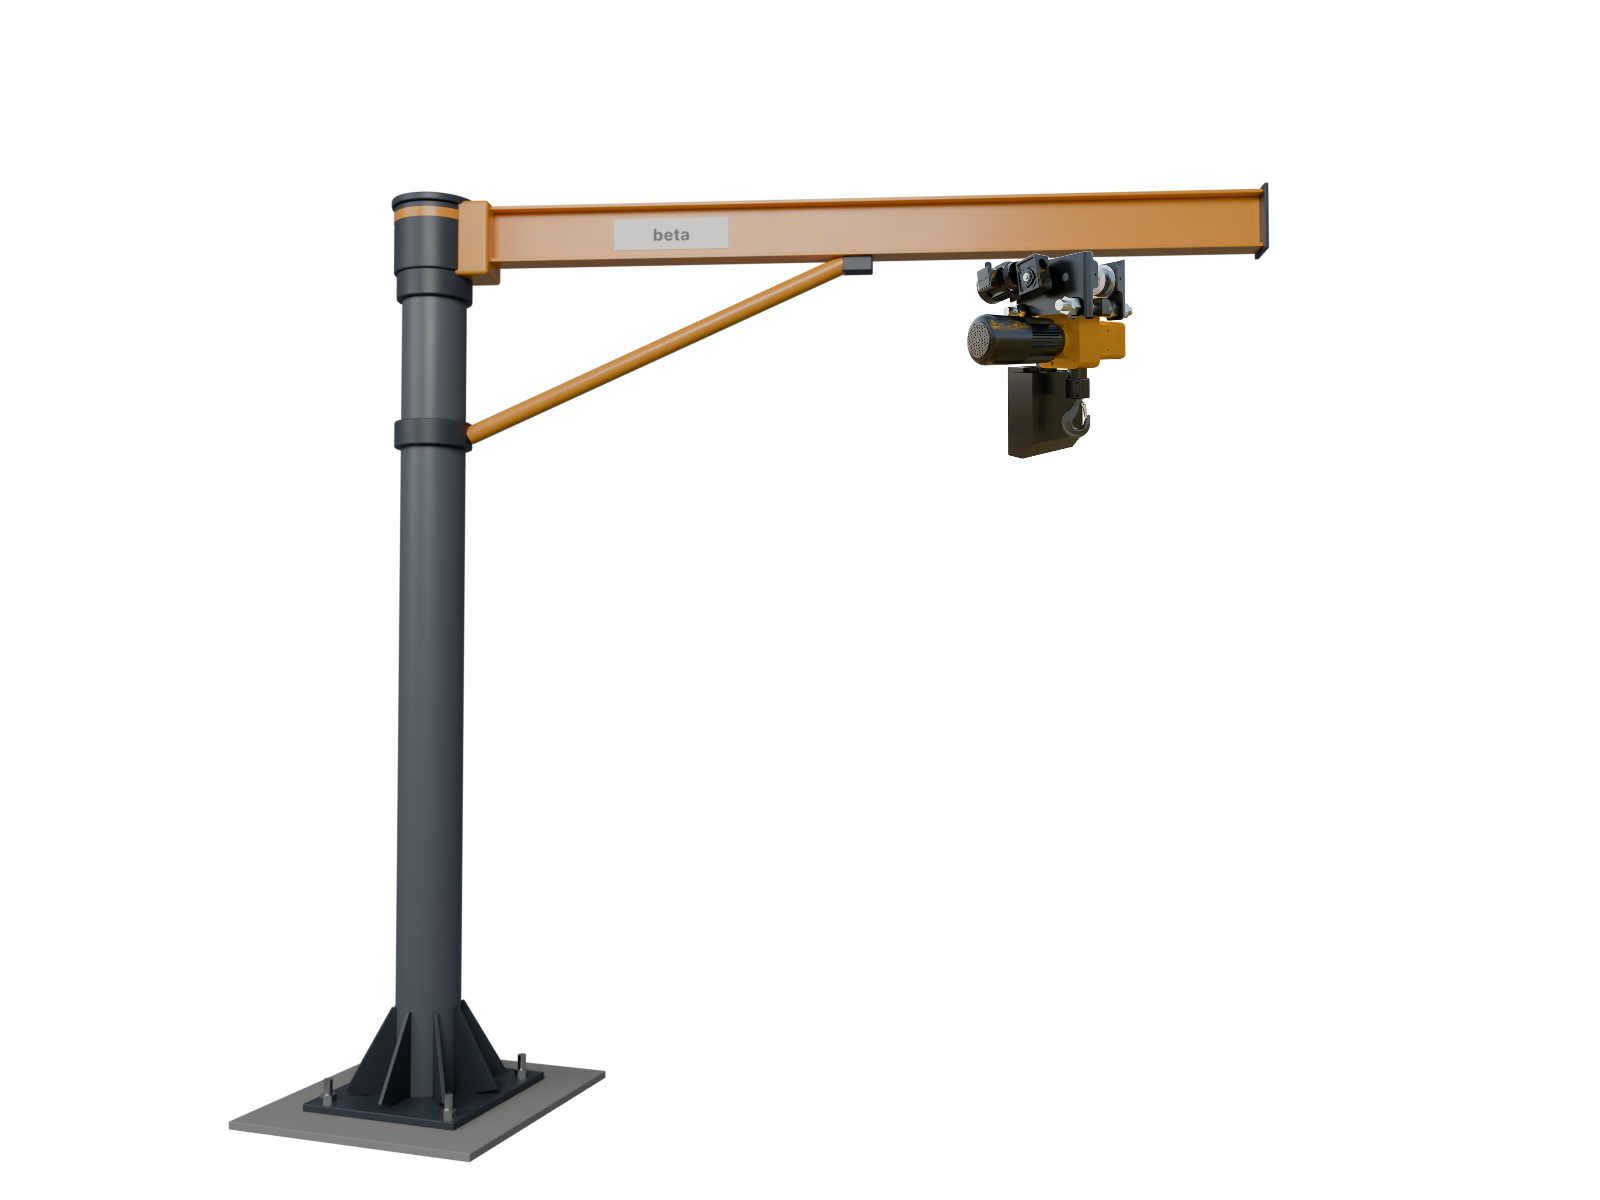
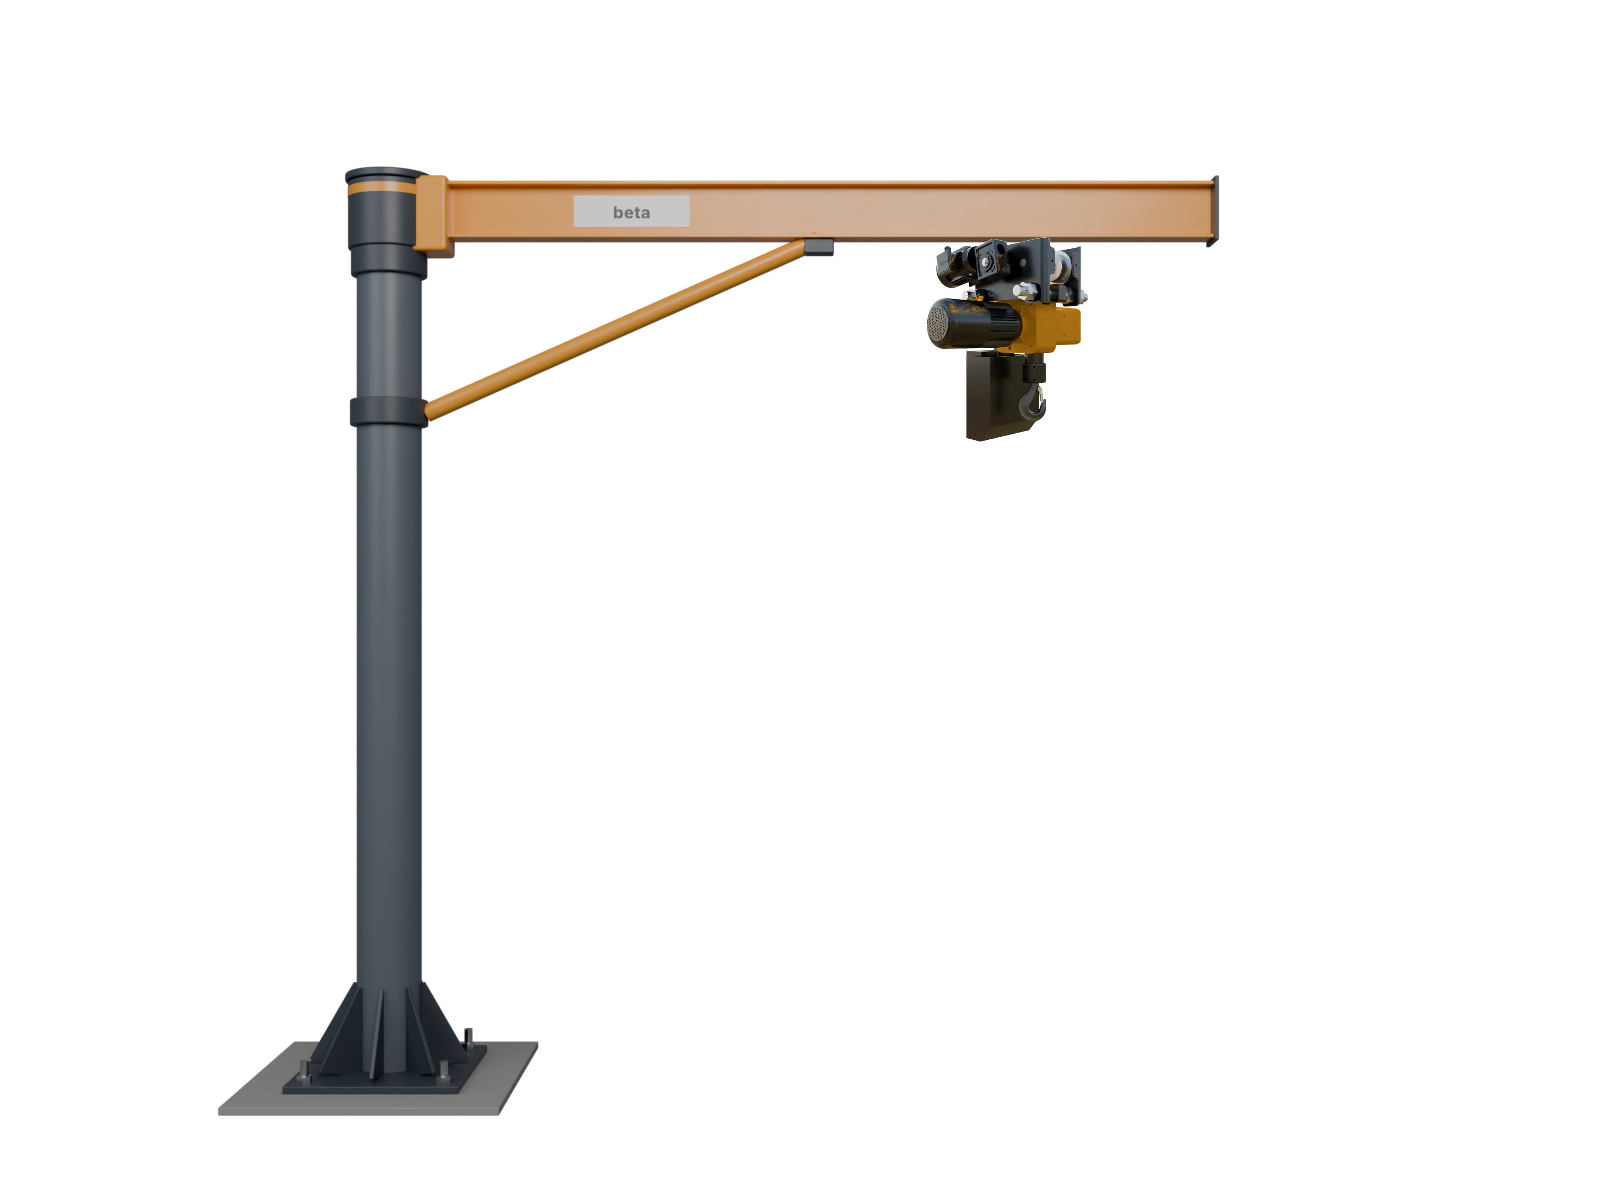
Orijinal çizimler gibi tam yandan görünüş; A ayaklı portaller, araba kiriş üstünde
Claude-Session: https://claude.ai/code/session_01BwJWWo6Yo4AefWjfCSnerb

Changed region(s): [[0.125, 0.1233, 0.8125, 0.9867]]

diff --git a/kaynak/render_vincler.py b/kaynak/render_vincler.py
@@ -563,6 +563,7 @@ def hol(M, arka_y=9.0, sol_x=-14.0, sag_x=18.0, yukseklik=12.0, kolon_aks=6.0):
 
 BEYAZ = os.environ.get("ORTAM", "beyaz") == "beyaz"
 FOTO_KLASOR = os.path.join(os.path.dirname(os.path.abspath(__file__)), "vinc_foto")
+YAN = BEYAZ and os.environ.get("GORUNUS", "yan") == "yan"  # orijinal çizimler gibi tam yandan görünüş
 RAY = 6.0 if BEYAZ else 30.0
 FOTOLAR = []  # (dosya, nesne, yerel_nokta, yukseklik_m, yatay_capa)
 
@@ -776,7 +777,7 @@ def sahne_duvar_pergel(M):
     beton = boya("beton_kolon", (0.36, 0.36, 0.345, 1), rough=0.85, var=0.1, bump=0.4)
     kutu("bina_kolon", (0.6, 0.6, 12.0), (-0.3, 0, 6.0), beton, bevel=0.01)
     # dönen grup (mafsal ekseni x=0.12)
-    g = bos("pergel", (0.12, 0, 0), (0, 0, math.radians(18)))
+    g = bos("pergel", (0.12, 0, 0), (0, 0, 0 if YAN else math.radians(18)))
     # duvar konsolu (sabit)
     kutu("konsol_plaka", (0.03, 0.42, 2.0), (0.015, 0, 3.4), M["antrasit"], bevel=0.004)
     for z in (4.15, 2.75):
@@ -802,7 +803,10 @@ def sahne_duvar_pergel(M):
     foto_vinc("zincirli_vinc_2ton.png", g, (3.25, 0, zb - 0.285), 1.25, capa=0.62)
     if not BEYAZ:
         palet(M, (4.6, 0.1, 0), 0.35)
-    kamera((4.6, -5.6, 2.6), (2.1, 0.3, 3.05), lens=34, dof=9)
+    if YAN:
+        kamera((2.3, -10.0, 2.7), (2.3, 0, 2.7), lens=48)
+    else:
+        kamera((4.6, -5.6, 2.6), (2.1, 0.3, 3.05), lens=34, dof=9)
     anahtar_isik((4, -9, 8), (2, 0, 2), 1800, boyut=6)
 
 
@@ -826,7 +830,7 @@ def sahne_kolon_pergel(M):
     silindir("kolon", 0.17, H, (0, 0, H / 2 + 0.06), M["gri"], seg=64)
     silindir("kolon_bilezik", 0.20, 0.16, (0, 0, H + 0.06), M["antrasit"], seg=64, bevel=0.01)
     # dönen grup
-    g = bos("pergel", (0, 0, 0), (0, 0, math.radians(15)))
+    g = bos("pergel", (0, 0, 0), (0, 0, 0 if YAN else math.radians(15)))
     zb = H + 0.48
     silindir("baslik", 0.215, 0.36, (0, 0, H + 0.30), M["antrasit"], g, seg=64, bevel=0.01)
     silindir("baslik_serit", 0.217, 0.05, (0, 0, H + 0.42), M["turuncu"], g, seg=64)
@@ -842,8 +846,46 @@ def sahne_kolon_pergel(M):
     foto_vinc("kompakt_vinc.png", g, (3.45, 0, zb - 0.285), 1.10, capa=0.66)
     if not BEYAZ:
         palet(M, (4.4, -0.6, 0), 0.3)
-    kamera((4.4, -6.6, 2.4), (2.0, 0.3, 2.65), lens=32, dof=9)
+    if YAN:
+        kamera((2.2, -10.0, 2.55), (2.2, 0, 2.55), lens=42)
+    else:
+        kamera((4.4, -6.6, 2.4), (2.0, 0.3, 2.65), lens=32, dof=9)
     anahtar_isik((3, -9, 8), (1.5, 0, 2), 1800, boyut=6)
+
+
+def portal_ayak_x(name, xc, z_alt, z_ust, M, g, derinlik):
+    """Orijinal çizimdeki gibi açıklık düzleminde A tipi ayak (iki konik kol + ara bağ)."""
+    alt, ust = 0.75, 0.18
+    for sx in (-1, 1):
+        uye(f"{name}_kol{sx}", (xc + sx * alt, 0, z_alt), (xc + sx * ust, 0, z_ust), derinlik, derinlik,
+            0.30, 0.40, M["turuncu"], g, up=Vector((0, 1, 0)), bevel=0.01)
+        kutu(f"{name}_flans{sx}", (0.46, derinlik + 0.04, 0.03), (xc + sx * alt, 0, z_alt + 0.015), M["turuncu"], g, bevel=0.004)
+    t = 0.42
+    zc = z_alt + (z_ust - z_alt) * t
+    yar = alt - (alt - ust) * t
+    kutu(f"{name}_bag", (2 * yar, derinlik * 0.9, 0.16), (xc, 0, zc), M["turuncu"], g, bevel=0.008)
+
+
+def bas_araba_x(name, xc, z, M, g, derinlik):
+    """X doğrultusunda yürüyen baş arabası; tekerlekler yandan görünür."""
+    L = 2.3
+    kutu(name, (L, derinlik, 0.36), (xc, 0, z + 0.33), M["antrasit"], g, bevel=0.012)
+    for sx in (-1, 1):
+        for sy in (-1, 1):
+            yy = sy * (derinlik / 2 + 0.05)
+            silindir(f"{name}_tek{sx}{sy}", 0.17, 0.10, (xc + sx * 0.8, yy, z + 0.20), M["antrasit"], g, axis="Y", bevel=0.006)
+            silindir(f"{name}_gobek{sx}{sy}", 0.06, 0.13, (xc + sx * 0.8, yy + sy * 0.02, z + 0.20), M["celik"], g, axis="Y")
+        kutu(f"{name}_tampon{sx}", (0.10, 0.14, 0.12), (xc + sx * (L / 2 + 0.05), 0, z + 0.33), M["siyah"], g, bevel=0.02)
+    kutu(f"{name}_red", (0.30, 0.22, 0.28), (xc + 0.35, -derinlik / 2 - 0.13, z + 0.42), M["turuncu"], g, bevel=0.02)
+    silindir(f"{name}_motor", 0.10, 0.34, (xc + 0.75, -derinlik / 2 - 0.13, z + 0.42), M["antrasit"], g, axis="X", bevel=0.01)
+
+
+def ray_x(name, x0, x1, y, M):
+    L = x1 - x0
+    cx = (x0 + x1) / 2
+    kutu(name + "_taban", (L, 0.16, 0.02), (cx, y, 0.01), M["ray"], bevel=0.003)
+    kutu(name + "_govde", (L, 0.03, 0.07), (cx, y, 0.055), M["ray"], bevel=0.002)
+    kutu(name + "_mantar", (L, 0.07, 0.035), (cx, y, 0.105), M["ray"], bevel=0.006)
 
 
 def portal_govde(M, g, span, z_ust, h, cift_ayak=True, ray_ust=0.0, kanca_z=1.6, foto=None):
@@ -852,18 +894,27 @@ def portal_govde(M, g, span, z_ust, h, cift_ayak=True, ray_ust=0.0, kanca_z=1.6,
     kutu_kiris("kiris_arka", 0, span, yk, z_ust, h, 0.42, M, g)
     for x in ((0.0, span) if True else ()):
         kutu(f"bas_kirisi{x}", (0.5, 2 * yk + 0.6, h * 0.8), (x, 0, z_ust - h * 0.45), M["turuncu"], g, bevel=0.012)
-    # yürüyüş yolu ve korkuluk (arka kiriş üstünde)
-    for i in range(int(span / 1.0) + 1):
+    # yürüyüş yolu ve korkuluk (arka kiriş üstünde; yan görünümde arabayı kapatmasın)
+    for i in range(0 if YAN else int(span / 1.0) + 1):
         kutu(f"korkuluk_dikme{i}", (0.04, 0.04, 1.0), (i * span / int(span), yk + 0.48, z_ust + 0.5), M["sari"], g, bevel=0.004)
-    kutu("korkuluk_ust", (span, 0.04, 0.04), (span / 2, yk + 0.48, z_ust + 1.0), M["sari"], g, bevel=0.004)
-    kutu("korkuluk_orta", (span, 0.03, 0.03), (span / 2, yk + 0.48, z_ust + 0.5), M["sari"], g, bevel=0.004)
+    if not YAN:
+        kutu("korkuluk_ust", (span, 0.04, 0.04), (span / 2, yk + 0.48, z_ust + 1.0), M["sari"], g, bevel=0.004)
+        kutu("korkuluk_orta", (span, 0.03, 0.03), (span / 2, yk + 0.48, z_ust + 0.5), M["sari"], g, bevel=0.004)
     kutu("yurume_yolu", (span, 0.55, 0.02), (span / 2, yk + 0.24 + 0.05, z_ust - 0.01), M["antrasit"], g, bevel=0.002)
     # ayaklar
     zl = z_ust - h
+    if YAN:
+        der = 2 * yk + 0.42
+        for i, xa in enumerate((1.6, span - 1.6) if cift_ayak else (1.6,)):
+            portal_ayak_x(f"ayak{i}", xa, 0.62, zl, M, g, der)
+            bas_araba_x(f"bas{i}", xa, ray_ust, M, g, der)
+            for sy in (-1, 1):
+                ray_x(f"ray{i}{sy}", xa - 2.2, xa + 2.2, sy * (der / 2 + 0.05), M)
     ya = max(1.7, yk + 0.9)
-    portal_ayak("ayak_sol", 0.0, ya, max(0.55, yk * 0.9), 0.62, zl, M, g)
-    bas_araba("bas_sol", 0.0, -ya - 0.5, ya + 0.5, M, g, z=ray_ust)
-    if cift_ayak:
+    if not YAN:
+        portal_ayak("ayak_sol", 0.0, ya, max(0.55, yk * 0.9), 0.62, zl, M, g)
+        bas_araba("bas_sol", 0.0, -ya - 0.5, ya + 0.5, M, g, z=ray_ust)
+    if cift_ayak and not YAN:
         portal_ayak("ayak_sag", span, ya, max(0.55, yk * 0.9), 0.62, zl, M, g)
         bas_araba("bas_sag", span, -ya - 0.5, ya + 0.5, M, g, z=ray_ust)
         kutu("kumanda_kabin", (0.6, 0.5, 0.9), (span - 0.0, -ya * 0.6, 1.6), M["antrasit"], g, bevel=0.01)
@@ -871,7 +922,7 @@ def portal_govde(M, g, span, z_ust, h, cift_ayak=True, ray_ust=0.0, kanca_z=1.6,
         # Beta halatlı vinç arabası fotoğrafı: kiriş raylarının üstünde, halatlar ön kirişin arkasında
         dosya, yuk, capa, dikey = foto
         foto_vinc(dosya, g, (span * 0.47, 0, z_ust + 0.05), yuk, capa=capa, dikey=dikey,
-                  arkasinda=("kiris_on",), halat=(0.45, 0.60, 2.1), eksen=(1, 0, 0))
+                  arkasinda=("kiris_on",), halat=(0.45, 0.60, kanca_z), eksen=(1, 0, 0))
     else:
         halatli_araba("araba", span * 0.47, z_ust + 0.05, yk, M, g, kanca_z=kanca_z)
 
@@ -889,15 +940,19 @@ def ray(name, x, y0, y1, M):
 def sahne_portal(M):
     ortam(M, arka_y=9.5, sol_x=-9.0, sag_x=22.0)
     span = 11.0
-    ray("ray_sol", 0.0, -RAY, RAY, M)
-    ray("ray_sag", span, -RAY, RAY, M)
+    if not YAN:
+        ray("ray_sol", 0.0, -RAY, RAY, M)
+        ray("ray_sag", span, -RAY, RAY, M)
     g = bos("portal", (0, 0, 0.12))
-    portal_govde(M, g, span, 6.6, 0.85, cift_ayak=True, kanca_z=1.4,
+    portal_govde(M, g, span, 6.6, 0.85, cift_ayak=True, kanca_z=3.0 if YAN else 1.4,
                  foto=("halatli_vinc_araba.png", 2.3, 0.5, 0.41) if BEYAZ else None)
     # yük: çelik sac paketi
     if not BEYAZ:
         yuk_kasa(M, (span * 0.47 - 0.15, -0.0, 0.0))
-    kamera((13.4, -11.0, 1.8), (5.4, 0.0, 3.7), lens=24, dof=12)
+    if YAN:
+        kamera((span / 2, -19.5, 4.1), (span / 2, 0, 4.1), lens=42)
+    else:
+        kamera((13.4, -11.0, 1.8), (5.4, 0.0, 3.7), lens=24, dof=12)
     anahtar_isik((4, -12, 10), (5, 0, 3), 3500, boyut=8)
 
 
@@ -907,7 +962,7 @@ def sahne_yari_portal(M):
     # sağda betonarme bina kolonları + yürüyüş yolu kirişi
     beton = boya("beton_kolon", (0.36, 0.36, 0.345, 1), rough=0.85, var=0.1, bump=0.4)
     kx = span + 0.75
-    for i, y in enumerate((-3.5, 3.5) if BEYAZ else (-12, -6, 0, 6, 12)):
+    for i, y in enumerate(((0,) if YAN else (-3.5, 3.5)) if BEYAZ else (-12, -6, 0, 6, 12)):
         kutu(f"bina_kolon{i}", (0.6, 0.6, 12), (kx, y, 6), beton, bevel=0.01)
         kutu(f"konsol{i}", (0.6, 0.6, 0.6), (kx - 0.55, y, 6.0), beton, bevel=0.01)
     if not BEYAZ:
@@ -919,17 +974,21 @@ def sahne_yari_portal(M):
     yk.rotation_euler = (0, 0, math.pi / 2)
     yk.location = (span, 0, 0)
     kutu("yol_rayi", (0.06, 7.6 if BEYAZ else 42.3, 0.05), (span, 0 if BEYAZ else 8.85, 6.775), M["ray"], bevel=0.004)
-    ray("ray_sol", 0.0, -RAY, RAY, M)
+    if not YAN:
+        ray("ray_sol", 0.0, -RAY, RAY, M)
     g = bos("portal", (0, 0, 0.12))
     zust = 7.75
-    portal_govde(M, g, span, zust, 0.85, cift_ayak=False, kanca_z=1.4,
+    portal_govde(M, g, span, zust, 0.85, cift_ayak=False, kanca_z=3.4 if YAN else 1.4,
                  foto=("halatli_vinc_araba.png", 2.3, 0.5, 0.41) if BEYAZ else None)
     # yol kirişi üzerindeki baş arabası
     bas_araba("bas_sag", span, -1.6, 1.6, M, g, z=6.68)
     kutu("sag_bas_baglanti", (0.5, 1.6, 0.25), (span, 0, zust - 0.85 - 0.12 + 0.0), M["turuncu"], g, bevel=0.01)
     if not BEYAZ:
         yuk_kasa(M, (span * 0.47 - 0.15, 0.0, 0.0))
-    kamera((-2.2, -11.6, 1.8), (6.0, 0.4, 4.3), lens=24, dof=12)
+    if YAN:
+        kamera((6.2, -20.5, 4.6), (6.2, 0, 4.6), lens=42)
+    else:
+        kamera((-2.2, -11.6, 1.8), (6.0, 0.4, 4.3), lens=24, dof=12)
     anahtar_isik((8, -12, 10), (6, 0, 3), 3500, boyut=8)
 
 

diff --git a/README.md b/README.md
@@ -1,7 +1,8 @@
 # Beta Vinç – Gerçekçi Vinç Görselleri
 
 betavinc.com'daki düz (flat) vektör portal ve pergel vinç çizimleri, Blender Cycles
-ile fotoğraf gerçekliğinde, gölgesiz düz beyaz arka plan üzerinde render edildi. Marka renkleri ve "beta" logosu korundu.
+ile fotoğraf gerçekliğinde, gölgesiz düz beyaz arka plan üzerinde ve orijinal çizimlerdeki
+gibi tam yandan görünüşle render edildi (eski 3/4 açı için: GORUNUS=capraz). Marka renkleri ve "beta" logosu korundu.
 
 Vinçler modellenmedi; Beta'nın gerçek ürün fotoğrafları (`kaynak/vinc_foto/`,
 beyaz zemini temizlenmiş) sahnedeki gerçek ölçülü bir düzleme oturtulup, köşeleri kameraya
